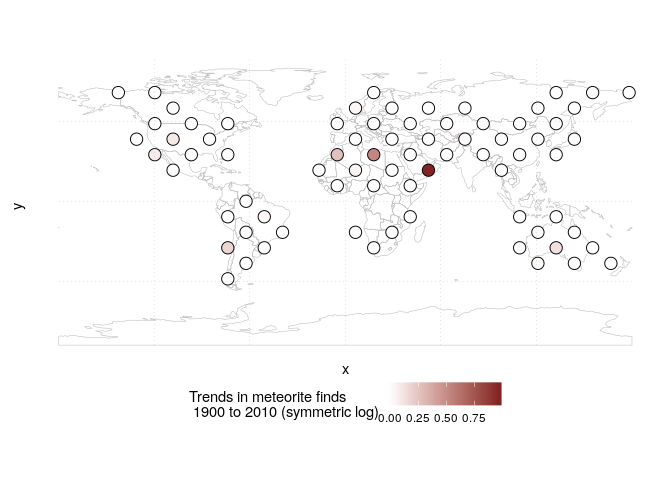
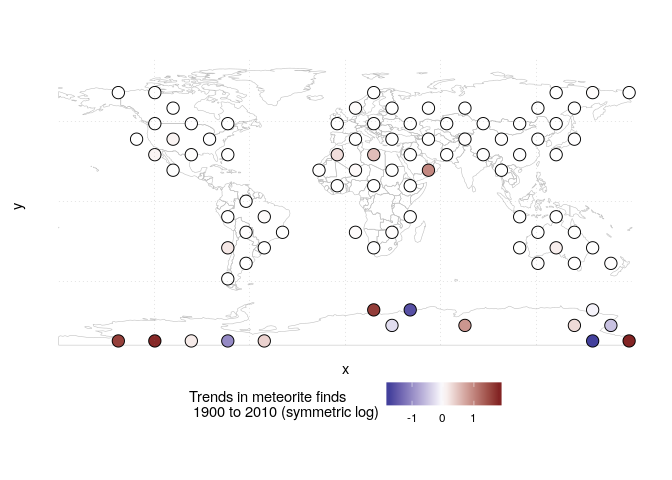
Thread pblicado

diff --git a/03 - Meteorites/README.md b/03 - Meteorites/README.md
@@ -33,7 +33,7 @@ name <- knitr::current_input(dir = TRUE)
 name <- "/home/elio/Documents/ddm/03 - Meteorites/README.Rmd"
 name <- strsplit(name, "/", fixed = TRUE)[[1]]
 dir <- name[length(name) - 1]
-dir <- stringi::stri_replace(dir, "%20", fixed = " ")
+dir <- stringi::stri_replace_all(dir, "%20", fixed = " ")
 
 url <- paste0("https://github.com/eliocamp/ddm/tree/master/", dir)
 
@@ -312,7 +312,7 @@ C <- 1/log(10)
 (g <- trends %>% 
   .[fall == "Found"] %>%
   .[complete.cases(.)] %>%
-  .[y > -60] %>%
+  # .[y > -60] %>%
   ggplot(aes(x, y)) +
   map +
   geom_point(aes(fill = sign(estimate) * log10(1 + abs(estimate/C))), 
@@ -335,106 +335,32 @@ this_thread$add_post("Interestingly, it seems that there has ben an increse in n
   add_post("So this #tidytuesday data provided some in where meteorites are found, opened up the posibility that losing dark skies means less meteorite findings and gave a glimpse into geographic trends.")$
   add_post(paste0("Thread created with the spindler package: https://git.io/fjzxN \n",
                   "It's source code can be found at ", url, "\n",
-                  "#rstats"))
+                  "#rstats #tidytuesday"))
 ```
 
 ``` r
-print(this_thread)
+this_thread$publish()
 ```
 
-    ##  1: I'm a bit late for this week's #tidytuesday, but I wanted
-    ##     to give it a go anyway. Specially because I'm using it as
-    ##     an excuse to try the spindler package in the real world. So
-    ##     join me as we learn a (little) bit about meteorites!
-    ##     #rstats
-    ##     | 
-    ##  2: So this week's data consists of about 50000 records of
-    ##     meteorites found on Earth. They've got names, mass, a
-    ##     classification, and long/lat coordinates, all divided by
-    ##     year.
-    ##     | 
-    ##  3: My first though was to see what those 'classes' were. It
-    ##     turn out that even though there are more than 450 unique
-    ##     classes, the vast majority of meteorites belong to just 6
-    ##     of them
-    ##     /home/elio/Documents/ddm/03 - Meteorites/README_files/figure-gfm/unnamed-chunk-4-1.png
-    ##     | 
-    ##  4: There's a long-ass wikipedia article on the subject
-    ##     (https://en.m.wikipedia.org/wiki/Meteorite_classification
-    ##     ), but as someone with zero geology training it's all
-    ##     meaningless to me. Lesson one: data withouth appropiate
-    ##     domain expertise is pretty much useless.
-    ##     | 
-    ##  5: Another thing I wanted to look at was the mass
-    ##     distribution. As I expected, it's extremely skewed (see the
-    ##     log x axis). There are also (very few) missing values.
-    ##     /home/elio/Documents/ddm/03 - Meteorites/README_files/figure-gfm/unnamed-chunk-7-1.png
-    ##     | 
-    ##  6: But what I'm most excited is the coordiantes of the find.
-    ##     It turns out that meteorites don't fall uniformly on earth?
-    ##     No! Of course they do, but people find meteorites and they
-    ##     are not uniformly distributed.
-    ##     /home/elio/Documents/ddm/03 - Meteorites/README_files/figure-gfm/unnamed-chunk-12-1.png
-    ##     | 
-    ##  7: But it's not only population density. Look at Antarctica!
-    ##     Finding a meteorite in a sea of white snow is really easy.
-    ##     Specially compared to the Amazon rainforest, where thick
-    ##     vegetation, and water courses make it impossible.
-    ##     /home/elio/Documents/ddm/03 - Meteorites/README_files/figure-gfm/unnamed-chunk-13-1.png
-    ##     | 
-    ##  8: There are also a lot of badly coded coordinates (0, 0).
-    ##     Either that, or there were a lot of meteorites found on the
-    ##     middle of the Ocean, floating? in the water.
-    ##     /home/elio/Documents/ddm/03 - Meteorites/README_files/figure-gfm/unnamed-chunk-14-1.png
-    ##     | 
-    ##  9: Ok, let's see some movement. First, has there been an
-    ##     overall tren in meteorite findings? Seems like it. Both
-    ##     types of finds had been increasing steadily, but in the
-    ##     60's we started to "find" a lot of them!
-    ##     /home/elio/Documents/ddm/03 - Meteorites/README_files/figure-gfm/unnamed-chunk-16-1.png
-    ##     | 
-    ## 10: What do these categories mean, though? A little google lead
-    ##     me to this.
-    ##     /home/elio/Documents/ddm/03 - Meteorites/falls_finds.png
-    ##     | 
-    ## 11: Now looking at the ones actually followed from the sky to
-    ##     the ground, it looks like the rate of collection peaked in
-    ##     around the 30s. Why? If I had to guess, I'd say that it
-    ##     could be related to the lost of dark skies.
-    ##     /home/elio/Documents/ddm/03 - Meteorites/README_files/figure-gfm/unnamed-chunk-18-1.png
-    ##     | 
-    ## 12: Now I'm curious about the spacial distribution of these
-    ##     trends. It's a nice challenge. I need to count yearly finds
-    ##     that are near each other to get a representative time
-    ##     series to which to compute a trend.
-    ##     | 
-    ## 13: The "easy" way would be to lay out a regular grid, but I'm
-    ##     thinking I want a better option: Hexagon grid.
-    ##     | 
-    ## 14: I'll use the hexbin package to partition the data into
-    ##     hexagons, aggregate by year and then compute a trend. The
-    ##     result is..🤔... not that interesting.
-    ##     /home/elio/Documents/ddm/03 - Meteorites/README_files/figure-gfm/unnamed-chunk-20-1.png
-    ##     | 
-    ## 15: Antarctica has seen huge trends, most likely related to the
-    ##     increase in occupation there. But there seems to be an
-    ##     increase also in North Africa, central Australia and in the
-    ##     Atacama desert.
-    ##     /home/elio/Documents/ddm/03 - Meteorites/README_files/figure-gfm/unnamed-chunk-21-1.png
-    ##     | 
-    ## 16: Interestingly, it seems that there has ben an increse in
-    ##     north african dealers that sell meteorites to researchers!
-    ##     http://news.bbc.co.uk/2/hi/africa/6549197.stm
-    ##     | 
-    ## 17: So this #tidytuesday data provided some in where meteorites
-    ##     are found, opened up the posibility that losing dark skies
-    ##     means less meteorite findings and gave a glimpse into
-    ##     geographic trends.
-    ##     | 
-    ## 18: Thread created with the spindler package:
-    ##     https://git.io/fjzxN
-    ##     It's source code can be found at
-    ##     https://github.com/eliocamp/ddm/tree/master/03%20-
-    ##     Meteorites
-    ##     #rstats
-    ##     |
+    ## your tweet has been posted!
+    ## your tweet has been posted!
+    ## your tweet has been posted!
+    ## your tweet has been posted!
+    ## your tweet has been posted!
+    ## your tweet has been posted!
+    ## your tweet has been posted!
+    ## your tweet has been posted!
+    ## your tweet has been posted!
+    ## your tweet has been posted!
+    ## your tweet has been posted!
+    ## your tweet has been posted!
+    ## your tweet has been posted!
+    ## your tweet has been posted!
+    ## your tweet has been posted!
+    ## your tweet has been posted!
+    ## your tweet has been posted!
+    ## your tweet has been posted!
+
+``` r
+saveRDS(this_thread, "~/thread.Rds")
+```
